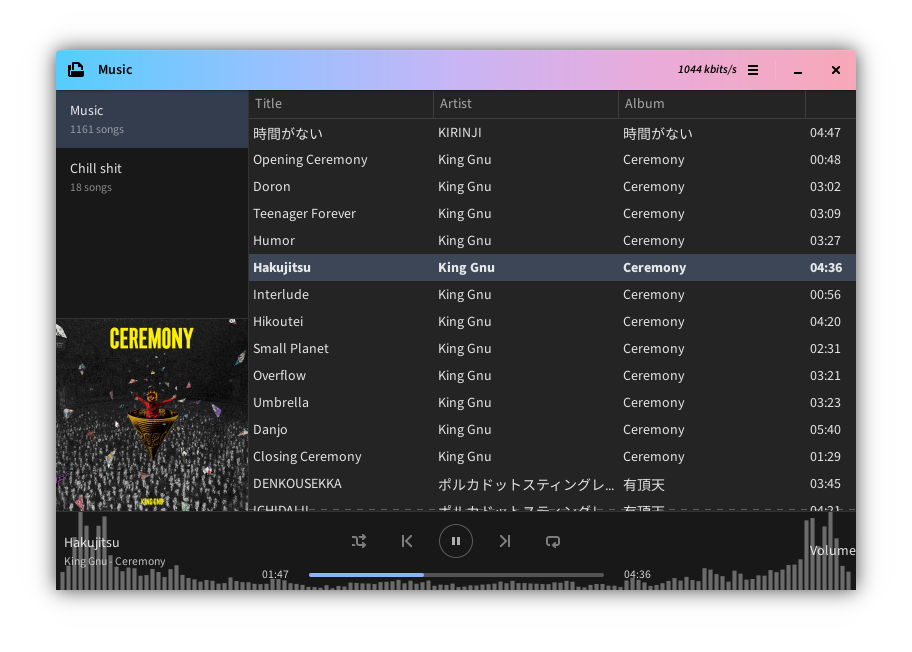
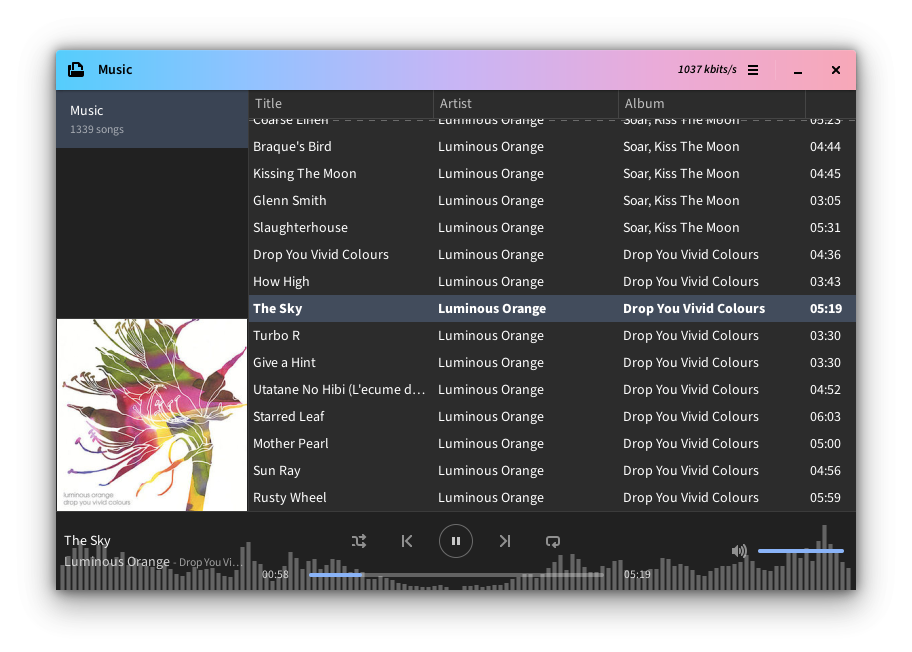
added volume and mpris

Changed region(s): [[0.0307, 0.184, 0.9518, 0.9509], [0.0614, 0.2454, 0.1228, 0.3067]]

diff --git a/internal/ui/content/bar/volume.go b/internal/ui/content/bar/volume.go
@@ -1,0 +1,125 @@
+package bar
+
+import (
+	"github.com/diamondburned/aqours/internal/ui/content/bar/controls"
+	"github.com/diamondburned/aqours/internal/ui/css"
+	"github.com/gotk3/gotk3/gtk"
+)
+
+type Volume struct {
+	gtk.Box
+
+	Icon   *gtk.Image
+	Mute   *gtk.ToggleButton
+	Slider *gtk.Scale
+
+	volume float64
+	muted  bool
+}
+
+var volumeSliderCSS = css.PrepareClass("volume-slider", `
+	scale {
+		margin: 0;
+		padding-left: 2px;
+	}
+`)
+
+var muteButtonCSS = css.PrepareClass("mute-button", `
+	button {
+		margin:  0;
+		color:   @theme_fg_color;
+		opacity: 0.5;
+		box-shadow: none;
+		background: none;
+	}
+
+	button:hover {
+		opacity: 1;
+	}
+`)
+
+func NewVolume(parent ParentController) *Volume {
+	icon, _ := gtk.ImageNew()
+	icon.Show()
+
+	mute, _ := gtk.ToggleButtonNew()
+	mute.SetRelief(gtk.RELIEF_NONE)
+	mute.SetImage(icon)
+	mute.Show()
+	muteButtonCSS(mute)
+
+	slider, _ := gtk.ScaleNewWithRange(gtk.ORIENTATION_HORIZONTAL, 0, 100, 1)
+	slider.SetSizeRequest(100, -1)
+	slider.SetDrawValue(false)
+	slider.Show()
+	controls.CleanScaleCSS(slider)
+	volumeSliderCSS(slider)
+
+	box, _ := gtk.BoxNew(gtk.ORIENTATION_HORIZONTAL, 0)
+	box.PackStart(mute, false, false, 0)
+	box.PackStart(slider, true, true, 0)
+	box.SetVAlign(gtk.ALIGN_CENTER)
+	box.SetHAlign(gtk.ALIGN_END)
+	box.SetHExpand(true)
+
+	volume := &Volume{
+		Box:    *box,
+		Icon:   icon,
+		Mute:   mute,
+		Slider: slider,
+		volume: 100,
+		muted:  false,
+	}
+
+	mute.SetActive(volume.muted)
+	slider.SetValue(volume.volume)
+	volume.updateIcon()
+
+	mute.Connect("toggled", func() {
+		volume.muted = mute.GetActive()
+		volume.updateIcon()
+		slider.SetSensitive(!volume.muted) // no sense to change volume while muted
+		parent.SetMute(volume.muted)
+	})
+
+	slider.Connect("change-value", func(_ *gtk.Scale, _ gtk.ScrollType, v float64) {
+		volume.volume = clampVolume(v)
+		volume.updateIcon()
+		parent.SetVolume(volume.volume)
+	})
+
+	return volume
+}
+
+// SetVolume sets the volume, triggering the callback to parent.
+func (v *Volume) SetVolume(perc float64) {
+	v.Slider.SetValue(perc)
+}
+
+func (v *Volume) updateIcon() {
+	var icon string
+
+	switch {
+	case v.volume < 1 || v.muted:
+		icon = "audio-volume-muted-symbolic"
+	case v.volume < 30:
+		icon = "audio-volume-low-symbolic"
+	case v.volume < 80:
+		icon = "audio-volume-medium-symbolic"
+	default:
+		icon = "audio-volume-high-symbolic"
+	}
+
+	v.Icon.SetFromIconName(icon, gtk.ICON_SIZE_BUTTON)
+}
+
+func clampVolume(perc float64) float64 {
+	switch {
+	case perc < 0:
+		return 0
+	case perc > 100:
+		return 100
+	default:
+		return perc
+	}
+}

diff --git a/internal/muse/mpv.go b/internal/muse/mpv.go
@@ -12,6 +12,7 @@ import (
 	"path/filepath"
 	"regexp"
 	"runtime"
+	"strings"
 	"time"
 
 	"github.com/DexterLB/mpvipc"
@@ -27,6 +28,7 @@ const (
 	bitrateEvent
 	timePositionEvent
 	timeRemainingEvent
+	audioDeviceEvent
 )
 
 var events = []string{
@@ -39,6 +41,7 @@ var propertyMap = map[mpvEvent]string{
 	bitrateEvent:       "audio-bitrate",
 	timePositionEvent:  "time-pos",
 	timeRemainingEvent: "time-remaining",
+	audioDeviceEvent:   "audio-device",
 }
 
 type mpvLineEvent uint
@@ -80,18 +83,26 @@ func newMpv() (*Session, error) {
 		return nil, errors.Wrap(err, "failed to make socket directory")
 	}
 
-	cmd := exec.Command(
-		"mpv",
+	args := []string{
 		"--idle",
 		"--quiet",
 		"--pause",
 		"--no-input-terminal",
 		"--gapless-audio=weak",
-		"--input-ipc-server="+sockPath,
+		"--input-ipc-server=" + sockPath,
+		"--volume=100",
 		"--no-video",
-		// mpv's vo/image backend is a disappointment.
-	)
+	}
 
+	// Try and support MPV_MPRIS.
+	if scripts := os.Getenv("MPV_SCRIPTS"); scripts != "" {
+		for _, script := range strings.Split(scripts, ":") {
+			args = append(args, "--script="+script)
+		}
+	}
+
+	cmd := exec.Command("mpv", args...)
+	cmd.Env = os.Environ()
 	cmd.Stderr = os.Stderr
 
 	conn := mpvipc.NewConnection(sockPath)
@@ -140,9 +151,6 @@ RetryOpen:
 			return nil, errors.Wrapf(err, "failed to observe property %q", property)
 		}
 	}
-
-	l, _ := conn.Get("audio-device")
-	fmt.Println("Audio device list:", l)
 
 	return &Session{
 		Playback:     conn,
@@ -196,6 +204,9 @@ func (s *Session) Start() {
 				timeRemaining = event.Data.(float64)
 				position, total := timePosition, timePosition+timeRemaining
 				glib.IdleAdd(func() { handler.OnPositionChange(position, total) })
+
+			case audioDeviceEvent:
+				log.Println("Audio device changed to", event.Data)
 			}
 
 			continue
@@ -228,6 +239,7 @@ func (s *Session) Start() {
 func (s *Session) Stop() {
 	select {
 	case <-s.stopEvent:
+		log.Println("Session already stopped; bailing early.")
 		return
 	default:
 		close(s.stopEvent)

diff --git a/internal/ui/content/bar/bar.go b/internal/ui/content/bar/bar.go
@@ -9,6 +9,8 @@ import (
 
 type ParentController interface {
 	controls.ParentController
+	SetVolume(perc float64)
+	SetMute(muted bool)
 }
 
 var nowPlayingCSS = css.PrepareClass("now-playing", `
@@ -17,16 +19,17 @@ var nowPlayingCSS = css.PrepareClass("now-playing", `
 	}
 `)
 
+var volumeCSS = css.PrepareClass("volume", "")
+
 type Container struct {
 	gtk.Grid
 	NowPlaying *NowPlaying
 	Controls   *controls.Container
-	TODOItem   *gtk.Label
+	Volume     *Volume
 }
 
 func NewContainer(parent ParentController) *Container {
 	nowpl := NewNowPlaying()
-	nowpl.SetHAlign(gtk.ALIGN_START)
 	nowpl.Show()
 	nowPlayingCSS(nowpl)
 
@@ -35,9 +38,9 @@ func NewContainer(parent ParentController) *Container {
 	controls.SetHAlign(gtk.ALIGN_FILL)
 	controls.Show()
 
-	item, _ := gtk.LabelNew("Volume")
-	item.SetHAlign(gtk.ALIGN_END)
-	item.Show()
+	vol := NewVolume(parent)
+	vol.Show()
+	volumeCSS(vol)
 
 	grid, _ := gtk.GridNew()
 	grid.SetRowHomogeneous(true)
@@ -47,13 +50,13 @@ func NewContainer(parent ParentController) *Container {
 
 	grid.Attach(nowpl, 0, 0, 1, 1)    // 1st column
 	grid.Attach(controls, 1, 0, 2, 1) // 2nd-3rd; span 2 columns
-	grid.Attach(item, 3, 0, 1, 1)     // 4th column
+	grid.Attach(vol, 3, 0, 1, 1)      // 4th column
 	grid.Show()
 
 	return &Container{
 		Grid:       *grid,
 		NowPlaying: nowpl,
 		Controls:   controls,
-		TODOItem:   item,
+		Volume:     vol,
 	}
 }

diff --git a/internal/ui/content/bar/controls/seek.go b/internal/ui/content/bar/controls/seek.go
@@ -14,23 +14,25 @@ var timePositionCSS = css.PrepareClass("time-position", "")
 
 var timeTotalCSS = css.PrepareClass("time-total", "")
 
-var seekBarCSS = css.PrepareClass("seek-bar", `
-	scale.seek-bar {
+var seekBarCSS = css.PrepareClass("seek-bar", ``)
+
+var CleanScaleCSS = css.PrepareClass("clean-scale", `
+	scale {
 		margin: -2px 4px;
 	}
 
-	scale.seek-bar trough,
-	scale.seek-bar highlight {
+	scale trough,
+	scale highlight {
 		border-radius: 9999px;
 	}
 
-	scale.seek-bar slider {
+	scale slider {
 		padding:    1px;
 		background: none;
 		transition: linear 75ms background;
 	}
 
-	scale.seek-bar:hover slider {
+	scale:hover slider {
 		/* Shitty hack to limit background size. Thanks, Gtk. */
 		background: radial-gradient(
 			circle,
@@ -73,6 +75,7 @@ func NewSeek(parent ParentController) *Seek {
 	bar.SetDrawValue(false)
 	bar.SetVAlign(gtk.ALIGN_CENTER)
 	bar.Show()
+	CleanScaleCSS(bar)
 	seekBarCSS(bar)
 
 	bar.Connect("change-value", func(_ *gtk.Scale, _ gtk.ScrollType, v float64) {

diff --git a/internal/ui/ui.go b/internal/ui/ui.go
@@ -309,3 +309,15 @@ func (w *MainWindow) SelectPlaylist(name string) {
 	w.Header.SetPlaylist(pl)
 	w.SetTitle(fmt.Sprintf("%s - Aqours", pl.Name))
 }
+
+func (w *MainWindow) SetVolume(perc float64) {
+	if err := w.muse.SetVolume(perc); err != nil {
+		log.Println("SetVolume failed:", err)
+	}
+}
+
+func (w *MainWindow) SetMute(muted bool) {
+	if err := w.muse.SetMute(muted); err != nil {
+		log.Println("SetVolume failed:", muted)
+	}
+}

diff --git a/internal/muse/muse.go b/internal/muse/muse.go
@@ -45,6 +45,14 @@ func (s *Session) SetPlay(playing bool) error {
 	return s.Playback.Set("pause", !playing)
 }
 
+func (s *Session) SetVolume(perc float64) error {
+	return s.Playback.Set("volume", perc)
+}
+
+func (s *Session) SetMute(muted bool) error {
+	return s.Playback.Set("mute", muted)
+}
+
 type batchErrors []error
 
 func makeBatchErrors(errs ...error) error {
